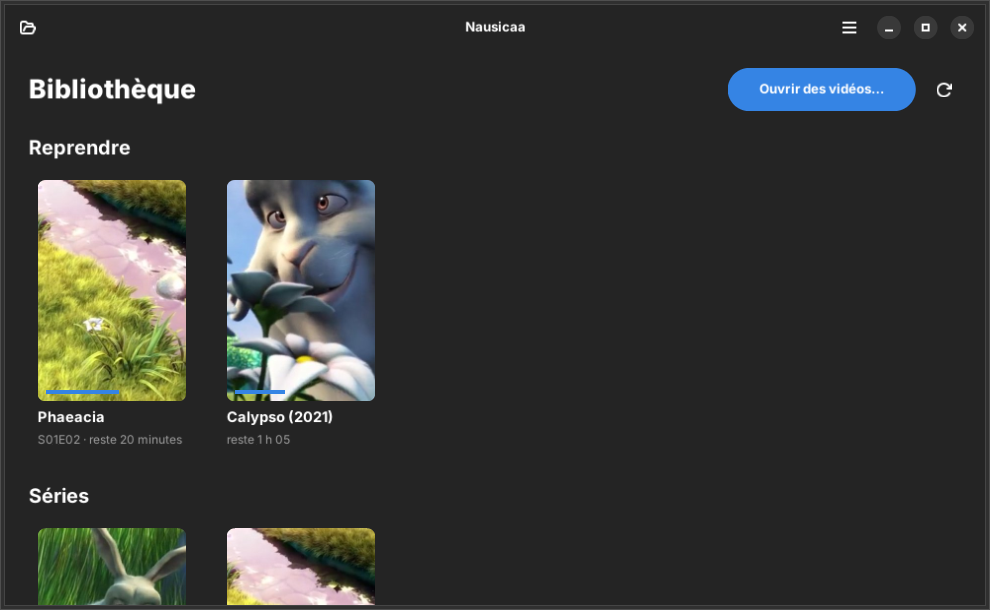
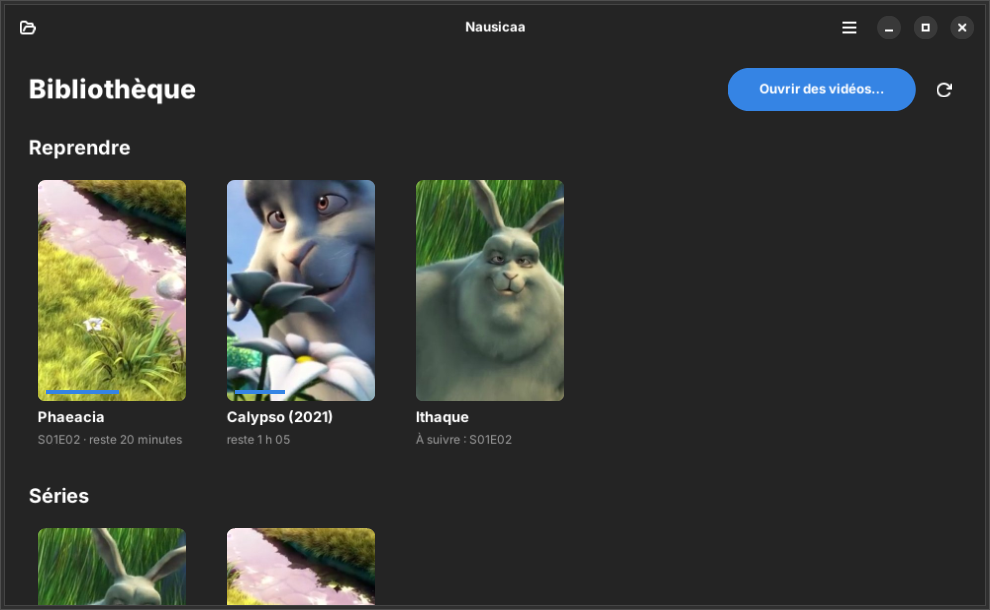
README et site à jour, captures refaites
README et site : passer le générique, Reprendre avec les séries, retour à
l'accueil (← / Alt+Début), signe ⏸ / ▶ ; captures refaites (bouton ←,
Reprendre, Préférences) ; extraits de démonstration sans le titre du film
entier.

Claude-Session: https://claude.ai/code/session_01DLrkgZZZBUMYUUihuPcv9t

Changed region(s): [[0.3939, 0.2803, 0.5758, 0.7475]]

diff --git a/site/index.html b/site/index.html
@@ -280,7 +280,7 @@
     <div class="copy">
       <div class="ftag">Mouse <span class="kbd">F</span><span class="kbd">↑</span><span class="kbd">↓</span></div>
       <h3>Your hand already knows what to do.</h3>
-      <p class="intro">The gestures you learned with VLC, without its quirks. A click pauses right away; a double-click goes full screen and the video keeps playing.</p>
+      <p class="intro">The gestures you learned with VLC, without its quirks. A click pauses right away, with a discreet ⏸ / ▶ sign in the middle; a double-click goes full screen and the video keeps playing.</p>
       <div class="gestures">
         <div class="g"><div class="gi">🖱</div><b>Click</b><span>pause / play</span></div>
         <div class="g"><div class="gi">⛶</div><b>Double-click</b><span>full screen, no pause</span></div>
@@ -332,6 +332,7 @@
       <p class="intro">Double-click “Episode 2” in your file manager: the other episodes of the folder join the queue, in the right order, and playback starts where you asked.</p>
       <div class="flist">
         <div class="fi"><span class="chk">✓</span><span><b>Natural order</b> — Episode 2 before Episode 10, like in your file manager.</span></div>
+        <div class="fi"><span class="chk">✓</span><span><b>Skip the credits</b> — during the end credits, a discreet “Next episode” button (or skip by itself). Found in the chapters, or learned once with G for the whole series. No Internet, no database.</span></div>
         <div class="fi"><span class="chk">✓</span><span><b>Resume where you left off</b>, for every video. “From the start” is one click away.</span></div>
         <div class="fi"><span class="chk">✓</span><span><b>A real queue</b>, on the right or on the left: shuffle, repeat, drag to reorder, Delete to remove, drop files to add.</span></div>
         <div class="fi"><span class="chk">✓</span><span><b>Playlists</b> — M3U, M3U8, XSPF, PLS, and the queue saved as a playlist with relative paths.</span></div>
@@ -348,14 +349,16 @@
 <section class="feature alt flip">
   <div class="wrap">
     <div class="copy">
-      <div class="ftag">New in 1.1 · Library</div>
+      <div class="ftag">Library</div>
       <h3>Your videos, on the start page.</h3>
       <p class="intro">Turn on the library and the start page shows what you were watching, your TV shows with one poster each, and your movies. Click a show: its seasons, the episodes you have seen, and a button to carry on.</p>
       <div class="flist">
         <div class="fi"><span class="chk">✓</span><span><b>Seasons grouped</b> — “Show season 1”, “Show season 2”… or “Show/Season 1” become one show.</span></div>
         <div class="fi"><span class="chk">✓</span><span><b>Posters without the Internet</b> — poster.jpg next to the videos, the GNOME thumbnail, or a picture taken from the video.</span></div>
         <div class="fi"><span class="chk">✓</span><span><b>Optional TMDB posters</b>, in your language, with your own free API key.</span></div>
+        <div class="fi"><span class="chk">✓</span><span><b>Continue watching</b> follows your shows — the episode you stopped in, or “Up next: S01E04” once one is finished. A cross removes a card.</span></div>
         <div class="fi"><span class="chk">✓</span><span><b>Watched</b> episodes and movies ticked; right-click to choose a poster or mark as watched.</span></div>
+        <div class="fi"><span class="chk">✓</span><span><b>Back home</b> during playback with ← (or Alt+Home): the position is kept, the card is waiting for you.</span></div>
       </div>
     </div>
     <div class="visual reveal tabbed" data-tabs>
@@ -428,7 +431,7 @@
     <div class="sec-head">
       <div class="sec-tag">Everything</div>
       <h2>All you need to watch. Nothing to manage.</h2>
-      <p>No library, no database, no account: your videos stay in your folders, Nausicaa just plays them.</p>
+      <p>No database, no account: your videos stay in your folders, Nausicaa just plays them.</p>
     </div>
     <div class="egrid">
       <div class="ecard reveal"><div class="ei">🎞</div><h4>The mpv engine</h4><p>Almost every format and streams too (Ctrl+U), smooth playback, the picture drawn straight into the window.</p><code>libmpv</code></div>

diff --git a/tools/screenshot.py b/tools/screenshot.py
@@ -74,7 +74,10 @@ def demo_from(source: str, episode: int) -> str:
     os.makedirs(folder)
     for i, (start, title) in enumerate(BBB_CUTS, 1):
         path = os.path.join(folder, f"Big Buck Bunny - {i} - {title}.mkv")
-        subprocess.run(["ffmpeg", "-loglevel", "error", "-y", "-ss", str(start), "-i", source, "-t", "16",
+        # -map_metadata -1 : sans le titre du film entier (« Big Buck Bunny, Sunflower version »), que Nausicaa
+        # afficherait à la place du nom de l'épisode (fonctionnalité file_titles)
+        subprocess.run(["ffmpeg", "-loglevel", "error", "-y", "-ss", str(start), "-i", source, "-map_metadata", "-1",
+                        "-t", "16",
                         "-vf", "scale=1280:-2", "-c:v", "libx264", "-preset", "veryfast", "-crf", "18",
                         "-pix_fmt", "yuv420p", "-c:a", "aac", path], check=True)
     i = max(1, min(episode, len(BBB_CUTS)))
@@ -139,7 +142,8 @@ def demo_history(win, root):
     for rel, entry in (("Phaeacia saison 1/Phaeacia S01E01.mkv", {"pos": 0, "dur": 2700, "seen": True}),
                        ("Phaeacia saison 1/Phaeacia S01E02.mkv", {"pos": 1500, "dur": 2700}),
                        ("Calypso (2021).mkv", {"pos": 2400, "dur": 6300}),
-                       ("Les Sirènes.mkv", {"pos": 0, "dur": 5400, "seen": True})):
+                       ("Les Sirènes.mkv", {"pos": 0, "dur": 5400, "seen": True}),
+                       ("Ithaque saison 1/Ithaque S01E01.mkv", {"pos": 0, "dur": 2700, "seen": True})):
         k = positions.key_for(os.path.join(root, rel))
         if k:
             pos.data[k] = dict(entry, time=now)

diff --git a/README.md b/README.md
@@ -11,7 +11,7 @@
 |---|---|
 | ![Full screen](docs/captures/plein-ecran.png) | ![Picture in picture](docs/captures/image-dans-l-image.png) |
 
-| Library / Bibliothèque (1.1) |
+| Library / Bibliothèque |
 |---|
 | ![Library](docs/captures/bibliotheque.png) |
 
@@ -53,7 +53,8 @@ bin/nausicaa                # try it without installing
 ### Features
 
 **The mouse, like VLC — but better**
-- A click on the picture **pauses at once**; a **double-click goes full screen without pausing**.
+- A click on the picture **pauses at once**, with a discreet ⏸ / ▶ sign in the middle; a **double-click goes full
+  screen without pausing**.
 - The **mouse wheel sets the volume**, shown over the picture (up to 150 % if you allow it).
 - In full screen, **compact rounded controls** float over the picture and fade away when the mouse rests.
 - Optionally, **videos open straight in full screen**, like VLC (Preferences → Features).
@@ -61,6 +62,9 @@ bin/nausicaa                # try it without installing
 
 **Library on the start page** (optional, Preferences → Features)
 - Your videos on the start page: **Continue watching**, **TV shows** (one poster per show) and **movies**.
+- **Continue watching** follows your shows: one card per show, on the episode you stopped in, or on the next one
+  (“Up next: S01E04”) once an episode is finished. A small cross removes a card (Undo in the notification).
+- The **←** button at the top left (or Alt+Home) brings you back to the start page during playback, position kept.
 - Shows stored one folder per season (“Show season 1”, “Show season 2”… or “Show/Season 1”) are grouped
   together; a show’s page lists its seasons with the **watched** episodes and a button to resume or play the next one.
 - Posters **without the Internet**: an image next to the videos (poster.jpg, folder.jpg, Movie-poster.jpg…), the
@@ -117,6 +121,8 @@ Every feature can be turned off in **Preferences → Features**, without restart
 | Ctrl+P | Picture in picture |
 | F9 | Play queue |
 | V / S | Show / hide subtitles · picture capture |
+| G | The credits start here (learned for the series) |
+| Alt+Home | Back to the start page |
 | Ctrl+O / Ctrl+U | Open videos / open an address |
 | F1 | All the shortcuts |
 
@@ -154,7 +160,8 @@ bin/nausicaa                # pour l'essayer sans l'installer
 ### Fonctionnalités
 
 **La souris comme VLC, en mieux**
-- Un clic sur l'image **met en pause tout de suite** ; un **double-clic passe en plein écran sans mettre en pause**.
+- Un clic sur l'image **met en pause tout de suite**, avec un signe ⏸ / ▶ discret au centre ; un **double-clic passe
+  en plein écran sans mettre en pause**.
 - La **molette règle le volume**, affiché sur l'image (jusqu'à 150 % si on l'autorise).
 - En plein écran, des **commandes compactes et arrondies** flottent sur l'image et s'effacent quand la souris ne
   bouge plus.
@@ -164,6 +171,9 @@ bin/nausicaa                # pour l'essayer sans l'installer
 
 **Bibliothèque sur l'accueil** (en option, Préférences → Fonctionnalités)
 - Vos vidéos sur l'accueil : **à reprendre**, **séries** (une affiche par série) et **films**.
+- **Reprendre** suit vos séries : une carte par série, sur l'épisode commencé, ou sur le suivant (« À suivre :
+  S01E04 ») une fois un épisode fini. Une petite croix retire une carte (« Annuler » dans la notification).
+- Le bouton **←** en haut à gauche (ou Alt+Début) ramène à l'accueil pendant la lecture, position retenue.
 - Les séries rangées par saison (« Série saison 1 », « Série saison 2 »… ou « Série/Saison 1 ») sont regroupées ;
   la page d'une série montre ses saisons, les épisodes **vus**, et un bouton pour reprendre ou lire la suite.
 - Affiches **sans Internet** : image posée à côté des vidéos (poster.jpg, folder.jpg, Film-poster.jpg…), vignette
@@ -223,6 +233,8 @@ Chaque fonctionnalité se coupe dans **Préférences → Fonctionnalités**, san
 | Ctrl+P | Image dans l'image |
 | F9 | File de lecture |
 | V / S | Afficher / masquer les sous-titres · capture de l'image |
+| G | Le générique commence ici (retenu pour la série) |
+| Alt+Début | Revenir à l'accueil |
 | Ctrl+O / Ctrl+U | Ouvrir des vidéos / ouvrir une adresse |
 | F1 | Tous les raccourcis |
 

diff --git a/CLAUDE.md b/CLAUDE.md
@@ -308,6 +308,9 @@ Captures du SITE (idée de Tof, plus vivant que des fractales) : `--source=` Big
 CC BY 3.0 : crédit obligatoire, en bas du site et sous la capture principale), découpé en six extraits
 (`BBB_CUTS`) — dark / light : brigands (épisode 2) ; fullscreen : écureuil volant (`--episode=6`) ; pip :
 papillon (`--episode=3`) ; `--delay=6000` (découpage plus long). Pas le lapin de face, vu partout.
+Extraits sans métadonnées (`-map_metadata -1` : sinon le titre du film entier, « Big Buck Bunny, Sunflower
+version », remplaçait le nom de l'épisode — fonctionnalité file_titles). Bibliothèque : Reprendre montre un épisode
+commencé, un film, et « À suivre : S01E02 » (épisode fini, `demo_history`).
 Captures du README (`docs/captures/`, en français comme Odysseus / Ithaca, mêmes extraits, `LANGUAGE=fr`) :
 lecture (sombre + file), clair, plein-ecran (`--episode=6`), image-dans-l-image (`--episode=3`, fenêtre
 découpée), fonctionnalites (`--prefs=features --size=1000x680`), accueil (`--welcome`). Crédit CC BY en bas
